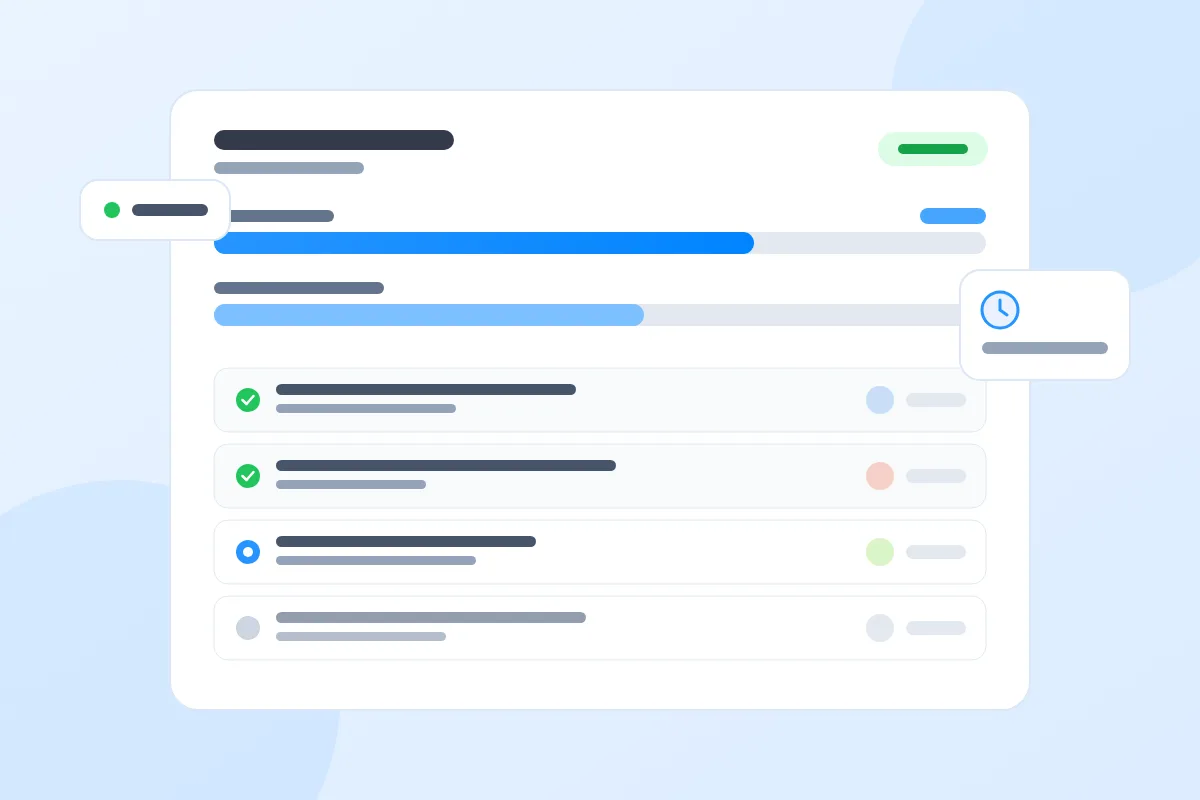
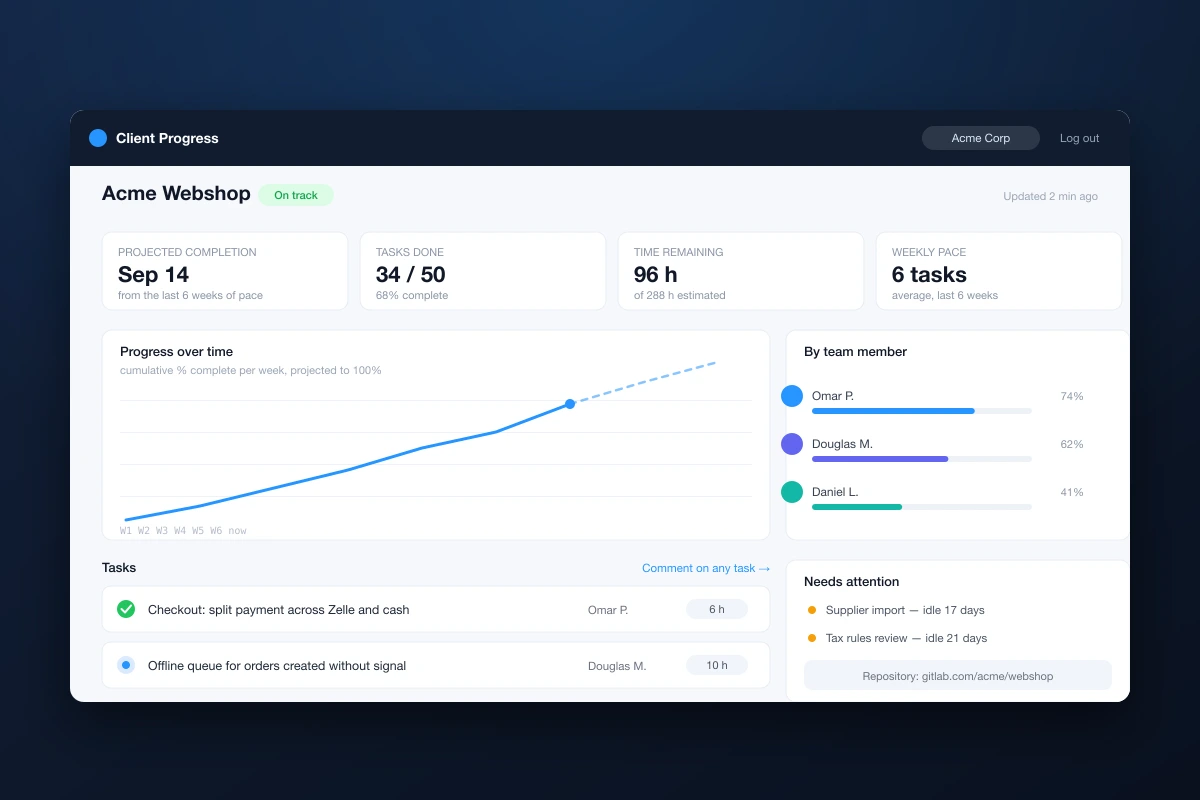
Sell transparency and full-service breadth on the homepage
The site read narrower than what we actually do — "web, backend and cloud
products" and five service cards that never mentioned AI, mobile or
automation, while the portfolio right below showed an Android app and two
LLM bots. Widen the hero lead and fold AI/automation and mobile into the
service cards so the claim matches the proof.

Add a Transparency section between Portfolio and Contact, where it lands
right before the CTA: the client dashboard, a comment box on every task,
and repository access from day one. This is the thing competitors do not
offer, and it was previously invisible to anyone who did not already know
to ask.

Replace the two generic wireframe covers with mockups in the same dark
style as the real screenshots — the client portal one was the weakest
image on the page despite being the strongest selling point.

diff --git a/src/app/i18n/dictionaries.ts b/src/app/i18n/dictionaries.ts
@@ -65,6 +65,15 @@ export type Dictionary = {
       features: string[];
     }[];
   };
+  transparency: {
+    eyebrow: string;
+    title: string;
+    lead: string;
+    points: { title: string; text: string }[];
+    /** Sentence before the repo link. */
+    note: string;
+    sourceLink: string;
+  };
   portfolio: {
     eyebrow: string;
     title: string;
@@ -136,11 +145,11 @@ const en: Dictionary = {
     badge: 'Software studio — taking on new projects',
     headlineTyped: 'Your product, built right',
     headlineRest: 'and built to scale.',
-    lead: "We design, build and run web, backend and cloud products for teams that can't afford to get it wrong. You bring the idea — we handle everything between it and your users.",
+    lead: "Whatever you need built, we build it — web and mobile apps, AI systems, APIs, automations, internal tools. You bring the idea; we handle everything between it and your users.",
     valueProps: [
       'Senior engineers on every project — no hand-offs to juniors.',
       'A clear plan and honest timeline before we write a line of code.',
-      'One partner from first idea to production, support included.',
+      'Total transparency: public prices, a live progress dashboard, and the repository from day one.',
     ],
     ctaPrimary: 'Book a free 30-min call',
     ctaSecondary: 'See our work →',
@@ -190,7 +199,7 @@ const en: Dictionary = {
   services: {
     eyebrow: 'what we do',
     title: 'Everything your product needs, under one roof',
-    lead: 'Strategy, design, engineering and support — one team accountable for the whole result, so nothing falls between vendors.',
+    lead: 'Strategy, design, engineering, AI and support — one team accountable for the whole result, so nothing falls between vendors. If it can be built, it is on this list.',
     items: [
       {
         title: 'Project management',
@@ -205,12 +214,12 @@ const en: Dictionary = {
         text: 'When something breaks at 2 a.m., we’re the ones awake. Monitoring, maintenance and fast response — long after launch day.',
       },
       {
-        title: 'Frontend design',
-        text: 'Fast, polished interfaces that turn visitors into customers — built to feel instant on any device.',
+        title: 'Web & mobile',
+        text: 'Fast, polished interfaces that turn visitors into customers — web apps and native Android, built to feel instant on any device.',
       },
       {
-        title: 'Backend development',
-        text: 'Secure, tested APIs and infrastructure that handle your busiest day as smoothly as your slowest — and grow with you.',
+        title: 'Backend, AI & automation',
+        text: 'Secure, tested APIs and infrastructure that handle your busiest day as smoothly as your slowest — plus LLM assistants, support bots and automations that take the repetitive work off your team.',
       },
     ],
   },
@@ -256,6 +265,27 @@ const en: Dictionary = {
         ],
       },
     ],
+  },
+  transparency: {
+    eyebrow: 'transparency',
+    title: 'Watch us build it, from day one',
+    lead: 'Most agencies show you a demo at the end. You get a login on day one — and the repository with it.',
+    points: [
+      {
+        title: 'Your own project dashboard',
+        text: 'Live progress, a projected finish date based on our real pace, who is working on what, and how long each task should take. No status meeting needed to find out.',
+      },
+      {
+        title: 'A comment box on every task',
+        text: 'Ask a question on any task and it reaches the engineer doing it — the answer comes back in the same place, and nothing gets lost in a chat thread.',
+      },
+      {
+        title: 'The repository, from day one',
+        text: 'You are added to the project on GitHub or GitLab: every commit, every issue, the full source, while we build it. The code is yours the whole time, not just at handover.',
+      },
+    ],
+    note: 'The dashboard is our own software, and its source is public:',
+    sourceLink: 'see the code →',
   },
   portfolio: {
     eyebrow: 'our work',
@@ -345,11 +375,11 @@ const es: Dictionary = {
     badge: 'Estudio de software — aceptando nuevos proyectos',
     headlineTyped: 'Tu producto, bien hecho',
     headlineRest: 'y listo para escalar.',
-    lead: 'Diseñamos, construimos y operamos productos web, backend y cloud para equipos que no se pueden permitir equivocarse. Tú traes la idea — nosotros nos encargamos de todo lo que hay entre ella y tus usuarios.',
+    lead: 'Lo que necesites construir, lo construimos — aplicaciones web y móviles, sistemas de IA, APIs, automatizaciones, herramientas internas. Tú traes la idea; nosotros nos encargamos de todo lo que hay entre ella y tus usuarios.',
     valueProps: [
       'Ingenieros senior en cada proyecto — sin delegar a juniors.',
       'Un plan claro y plazos honestos antes de escribir una línea de código.',
-      'Un solo socio desde la idea hasta producción, soporte incluido.',
+      'Transparencia total: precios públicos, panel de avance en vivo y el repositorio desde el primer día.',
     ],
     ctaPrimary: 'Agenda una llamada gratis de 30 min',
     ctaSecondary: 'Ver nuestro trabajo →',
@@ -399,7 +429,7 @@ const es: Dictionary = {
   services: {
     eyebrow: 'qué hacemos',
     title: 'Todo lo que tu producto necesita, en un solo lugar',
-    lead: 'Estrategia, diseño, ingeniería y soporte — un equipo responsable del resultado completo, para que nada se pierda entre proveedores.',
+    lead: 'Estrategia, diseño, ingeniería, IA y soporte — un equipo responsable del resultado completo, para que nada se pierda entre proveedores. Si se puede construir, está en esta lista.',
     items: [
       {
         title: 'Gestión de proyectos',
@@ -414,12 +444,12 @@ const es: Dictionary = {
         text: 'Cuando algo se rompe a las 2 de la madrugada, nosotros estamos despiertos. Monitorización, mantenimiento y respuesta rápida — mucho después del lanzamiento.',
       },
       {
-        title: 'Diseño frontend',
-        text: 'Interfaces rápidas y cuidadas que convierten visitantes en clientes — pensadas para sentirse instantáneas en cualquier dispositivo.',
+        title: 'Web y móvil',
+        text: 'Interfaces rápidas y cuidadas que convierten visitantes en clientes — aplicaciones web y Android nativo, pensadas para sentirse instantáneas en cualquier dispositivo.',
       },
       {
-        title: 'Desarrollo backend',
-        text: 'APIs e infraestructura seguras y probadas que soportan tu día más intenso igual de bien que el más tranquilo — y crecen contigo.',
+        title: 'Backend, IA y automatización',
+        text: 'APIs e infraestructura seguras y probadas que soportan tu día más intenso igual de bien que el más tranquilo — más asistentes con IA, bots de atención y automatizaciones que le quitan el trabajo repetitivo a tu equipo.',
       },
     ],
   },
@@ -465,6 +495,27 @@ const es: Dictionary = {
         ],
       },
     ],
+  },
+  transparency: {
+    eyebrow: 'transparencia',
+    title: 'Ves cómo lo construimos, desde el primer día',
+    lead: 'Casi todas las agencias te enseñan una demo al final. Tú recibes un acceso el primer día — y el repositorio con él.',
+    points: [
+      {
+        title: 'Tu propio panel del proyecto',
+        text: 'Avance en vivo, una fecha estimada de entrega calculada con nuestro ritmo real, quién está haciendo qué y cuánto debería tomar cada tarea. No hace falta una reunión para enterarte.',
+      },
+      {
+        title: 'Un espacio para comentar en cada tarea',
+        text: 'Preguntas sobre cualquier tarea y le llega al ingeniero que la está haciendo — la respuesta vuelve al mismo sitio, sin perderse en un hilo de chat.',
+      },
+      {
+        title: 'El repositorio, desde el primer día',
+        text: 'Te damos acceso al proyecto en GitHub o GitLab: cada commit, cada issue, todo el código fuente, mientras lo construimos. El código es tuyo desde el principio, no solo al entregarlo.',
+      },
+    ],
+    note: 'El panel es software nuestro y su código es público:',
+    sourceLink: 'ver el código →',
   },
   portfolio: {
     eyebrow: 'nuestro trabajo',

diff --git a/src/app/components/transparency.tsx b/src/app/components/transparency.tsx
@@ -1,0 +1,59 @@
+"use client";
+import React from 'react';
+import Image from 'next/image';
+import Reveal from './reveal';
+import { useDict } from '../i18n/LocaleProvider';
+
+/** Sits between Portfolio (blue) and Contact (gray) — white keeps the section rhythm. */
+const Transparency = () => {
+  const dict = useDict();
+  return (
+    <div className="bg-white py-14 md:py-24 font-sans">
+      <div className="xl:container m-auto px-6 sm:px-10 md:px-12 lg:px-6">
+        <div className="grid gap-10 lg:gap-16 lg:grid-cols-2 lg:items-center">
+          <Reveal direction="right">
+            <Image
+              className="w-full rounded-3xl shadow-2xl shadow-blue-900/20"
+              src="/portfolio/client-progress.webp"
+              alt="client dashboard showing live project progress, forecast completion date and task list"
+              width={1200}
+              height={800}
+              loading="lazy"
+            />
+          </Reveal>
+
+          <Reveal direction="left" delay={120}>
+            <span className="block text-xs font-semibold tracking-[0.25em] text-blue-500 mb-3">
+              {dict.transparency.eyebrow}
+            </span>
+            <h2 className="text-3xl md:text-5xl font-bold mb-4 text-gray-900">{dict.transparency.title}</h2>
+            <p className="text-gray-600 mb-8">{dict.transparency.lead}</p>
+
+            <ul className="space-y-6">
+              {dict.transparency.points.map((p) => (
+                <li key={p.title} className="border-l-2 border-blue-500 pl-5">
+                  <h3 className="font-semibold text-gray-900">{p.title}</h3>
+                  <p className="text-gray-600 text-sm mt-1">{p.text}</p>
+                </li>
+              ))}
+            </ul>
+
+            <p className="mt-8 text-sm text-gray-500">
+              {dict.transparency.note}{' '}
+              <a
+                className="text-blue-600 font-medium hover:underline"
+                href="https://github.com/omarperezr/client_progress_xsingularity"
+                target="_blank"
+                rel="noopener noreferrer"
+              >
+                {dict.transparency.sourceLink}
+              </a>
+            </p>
+          </Reveal>
+        </div>
+      </div>
+    </div>
+  );
+};
+
+export default Transparency;

diff --git a/src/app/components/portfolio.data.ts b/src/app/components/portfolio.data.ts
@@ -101,8 +101,8 @@ export const PROJECTS: Project[] = [
       es: 'Producto propio',
     },
     description: {
-      en: 'How our clients see their project instead of waiting for a status meeting: the portal reads the project repository and turns its issues into live progress bars — plain and time-weighted — plus a task list showing who is doing what and how long each task is estimated to take. Each client signs in and sees only their own projects.',
-      es: 'Así ven nuestros clientes su proyecto en vez de esperar una reunión de estado: el portal lee el repositorio del proyecto y convierte sus issues en barras de progreso en vivo — simple y ponderada por tiempo — más una lista de tareas con quién hace qué y cuánto se estima que tome. Cada cliente inicia sesión y ve solo sus proyectos.',
+      en: 'Every client gets a login here on day one. The portal reads the project repository and turns its issues into live progress, a projected finish date from the team\'s real pace, weekly throughput, and a task list showing who is doing what and how long it should take. Clients comment on any task and the reply posts straight back to the issue. Kick-off call recordings are transcribed and drafted into issues for the team to review before anything is pushed.',
+      es: 'Cada cliente recibe un acceso aquí el primer día. El portal lee el repositorio del proyecto y convierte sus issues en avance en vivo, una fecha estimada de entrega calculada con el ritmo real del equipo, rendimiento semanal y una lista de tareas con quién hace qué y cuánto debería tomar. Los clientes comentan en cualquier tarea y la respuesta se publica directo en el issue. Las grabaciones de la reunión inicial se transcriben y se convierten en borradores de issues que el equipo revisa antes de publicar nada.',
     },
   },
   {

diff --git a/src/app/home.tsx b/src/app/home.tsx
@@ -9,6 +9,7 @@ import Tech from "./components/tech";
 import Services from "./components/services";
 import Packages from "./components/packages";
 import Portfolio from "./components/portfolio";
+import Transparency from "./components/transparency";
 
 /** Shared page body — identical structure for every locale; copy comes from the dictionary. */
 export default function Home() {
@@ -32,6 +33,7 @@ export default function Home() {
       <div id="Services"><Services /></div>
       <div id="Packages"><Packages /></div>
       <div id="Portfolio"><Portfolio /></div>
+      <Transparency />
       <div id="Contact"><Contact /></div>
     </main>
   );
